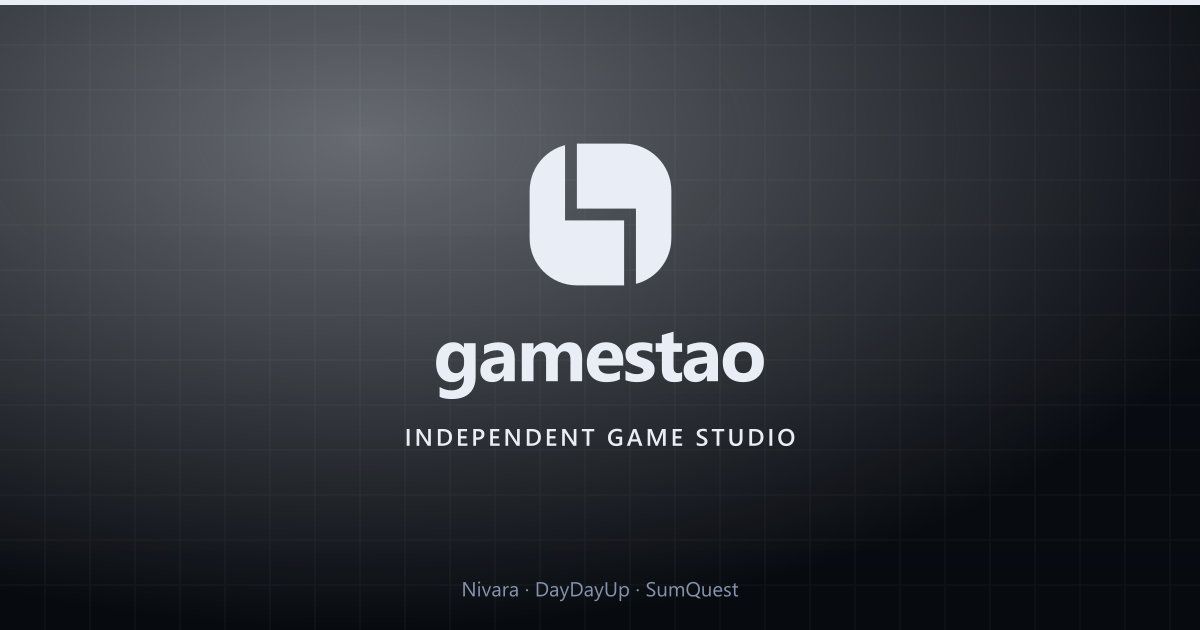
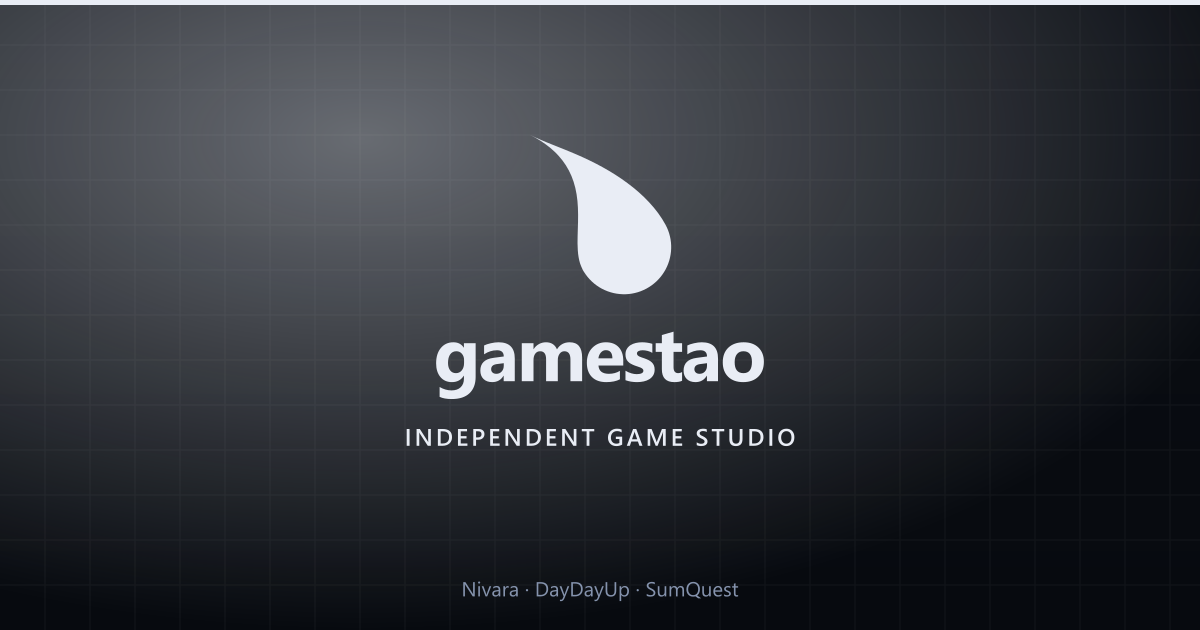
feat: a brush dot for the studio mark
Replaces the two interlocking halves with a single brush dot: a dense
head with a tail whipped off it, constructed from a curved spine, one
width profile per side, and a round cap.

The weight is the point, and it took several passes to find where weight
comes from. Not size — a bigger dot is just bigger. Not bulk either: a
fat dot with evenly round sides reads as a balloon, which is the
opposite. It is contrast, nearly all the ink in the head and a tail that
stays a fraction of its width, and it is the curve in the spine that
makes that tail read as thrown rather than merely narrow.

Two things the geometry had to learn the hard way, both written up where
the numbers are:

  - bowing a straight edge outward to make it convex grows a shoulder,
    because the bulge has to come back in. Giving each edge its own
    width profile does not, since both reach the head's radius with zero
    slope and neither has to return.
  - a width profile whose slope is non-zero at the end meets the cap at
    an angle, which is a visible notch at 400px and invisible at 64.

The favicon master is now the same drawing with less padding. It used to
be a different one — a finer tail could not survive 16px — but the
fatter tail turned out to be the better mark at every size, which
retired the trade.

The nav mark goes to 1.45rem, under the old 1.5: the dot leaves its
corners empty but packs its ink into the head, so it outweighed the
wordmark at the old size.

Changed region(s): [[0.4317, 0.2111, 0.5858, 0.4825]]

diff --git a/src/styles/global.css b/src/styles/global.css
@@ -178,13 +178,18 @@ dl {
   font-size: 1.15rem;
 }
 
-/* The wordmark's only graphic: three stacked bars, one per game. */
-/* The one place the mark is drawn is `public/assets/brand/mark.svg`. This used
-   to be a CSS gradient square, which meant the tab and the header showed two
-   different logos and neither knew about the other. */
+/* The wordmark's only graphic: the studio mark, a single brush dot.
+   The one place it is drawn is `public/assets/brand/mark.svg`, generated by
+   `scripts/placeholders.mjs`. This used to be a CSS gradient square, which
+   meant the tab and the header showed two different logos and neither knew
+   about the other. */
+/* A shade under the 1.5rem the old mark wanted. The dot leaves its corners
+   empty, but nearly all of its ink is packed into the head, so it is the head
+   and not the box that has to balance the wordmark. Sized by eye against the
+   wordmark rather than to a round number. */
 .nav__mark {
-  width: 1.5rem;
-  height: 1.5rem;
+  width: 1.45rem;
+  height: 1.45rem;
   flex: none;
   background: url('/assets/brand/mark.svg') center / contain no-repeat;
 }
